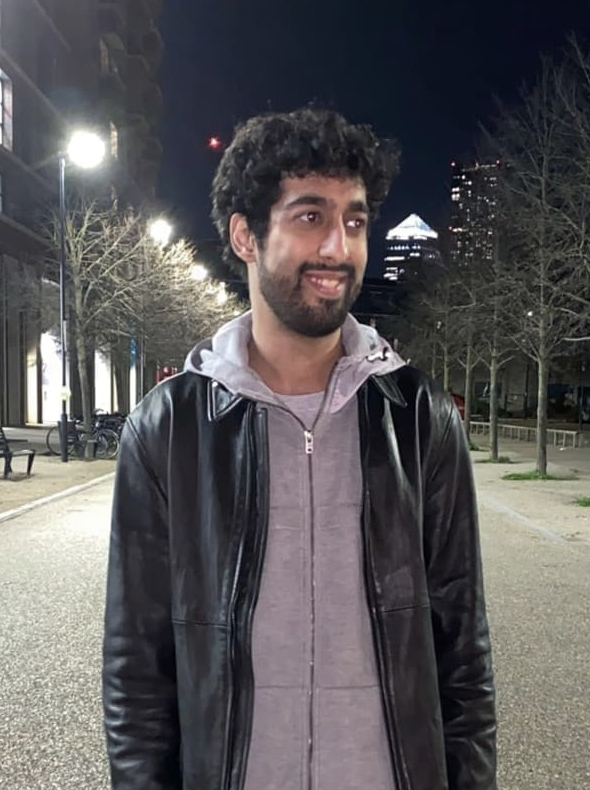
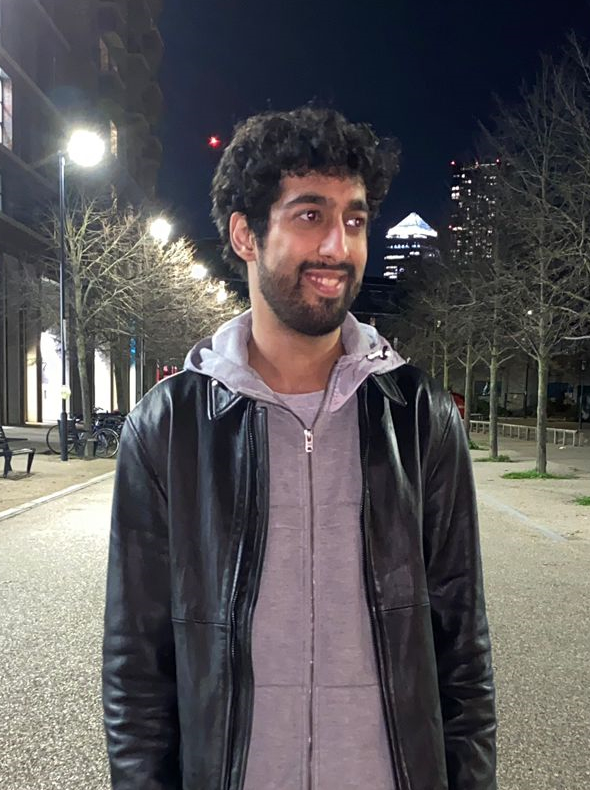
Add bugfixes, change about description slightly

diff --git a/about.html b/about.html
@@ -39,11 +39,11 @@
                 <div id="about-inner">
                     <div id="about-info">
                         <p>I am an aspiring Software Engineer, passionate about Gamedev and AI,
-                        with an additional interest in Computer Vision. I particularly enjoy projects that
-                        involve some element of creativity. The ability to self express is always a plus. 
-                        In general, however, I like most areas of software development as each offer their 
-                        own unique challenges. Outside of programming, I enjoy literature, travelling and 
-                        experiencing new food and culture.
+                        with an additional interest in Computer Vision. I have a keen creative eye
+                        and particularly enjoy projects with the freedom to self express.
+                        In general, however, I like most areas of software development as each 
+                        offer their own unique challenges. Outside of programming, I enjoy literature, 
+                        travelling and experiencing new food and culture. 
                         <br><br>Some technologies I've been tinkering around with lately:</p>
                         <ul>
                             <li>Unity</li>
@@ -51,7 +51,7 @@
                             <li>Python</li>
                             <li>Pytorch</li>
                             <li>React</li>
-                            <li>NodeJS</li>
+                            <li>Java</li>
                         </ul>
                     </div>
                     <figure id="admin-pic">

diff --git a/style.css b/style.css
@@ -89,7 +89,6 @@ h3::after {
     width: 12px;
     position: absolute;
     bottom: 1px;
-    right: -12px;
     background: var(--main-color);
     animation: blink 0.5s linear 0s infinite alternate;
 }
@@ -115,11 +114,6 @@ h5 {
     }
     h3 {
         font-size: 1.4em;
-    }
-    h3::after {
-        position: absolute;
-        bottom: 1px;
-        right: 112px;
     }
 }
 
@@ -237,7 +231,6 @@ main {
 }
 
 section {
-    width: 50vw;
     display: flex;
     flex-direction: column;
     justify-content: center;
